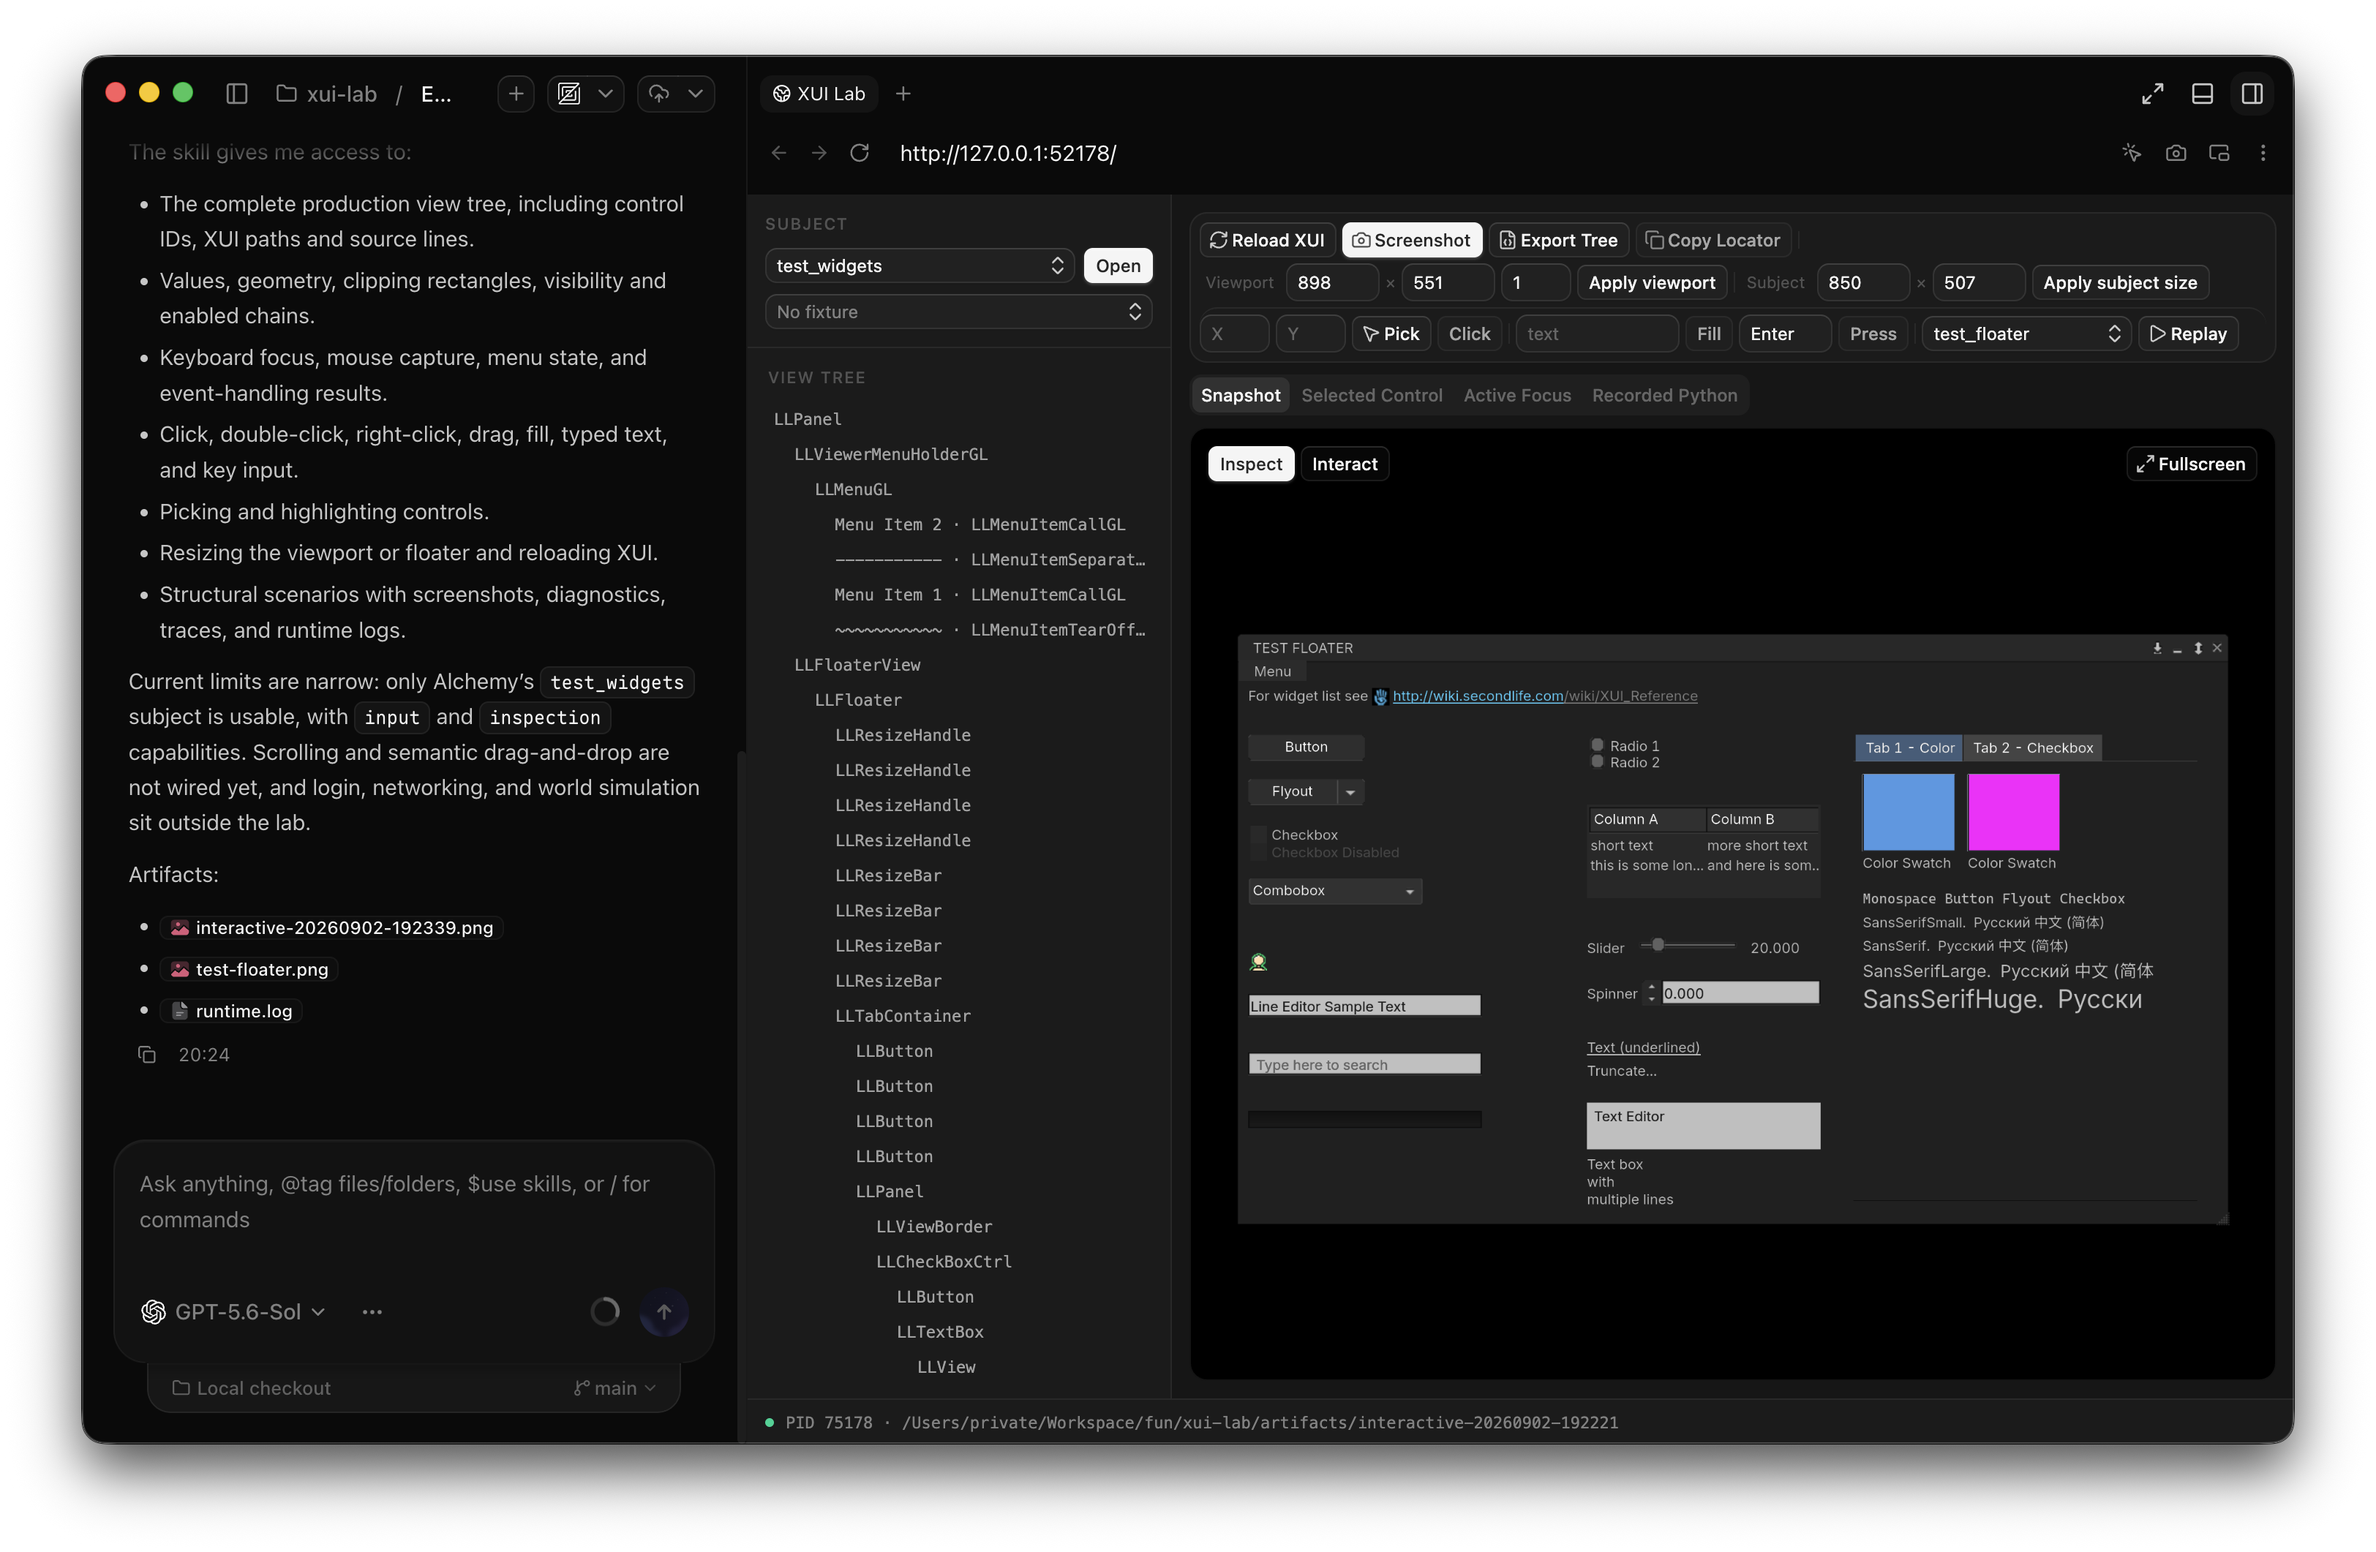
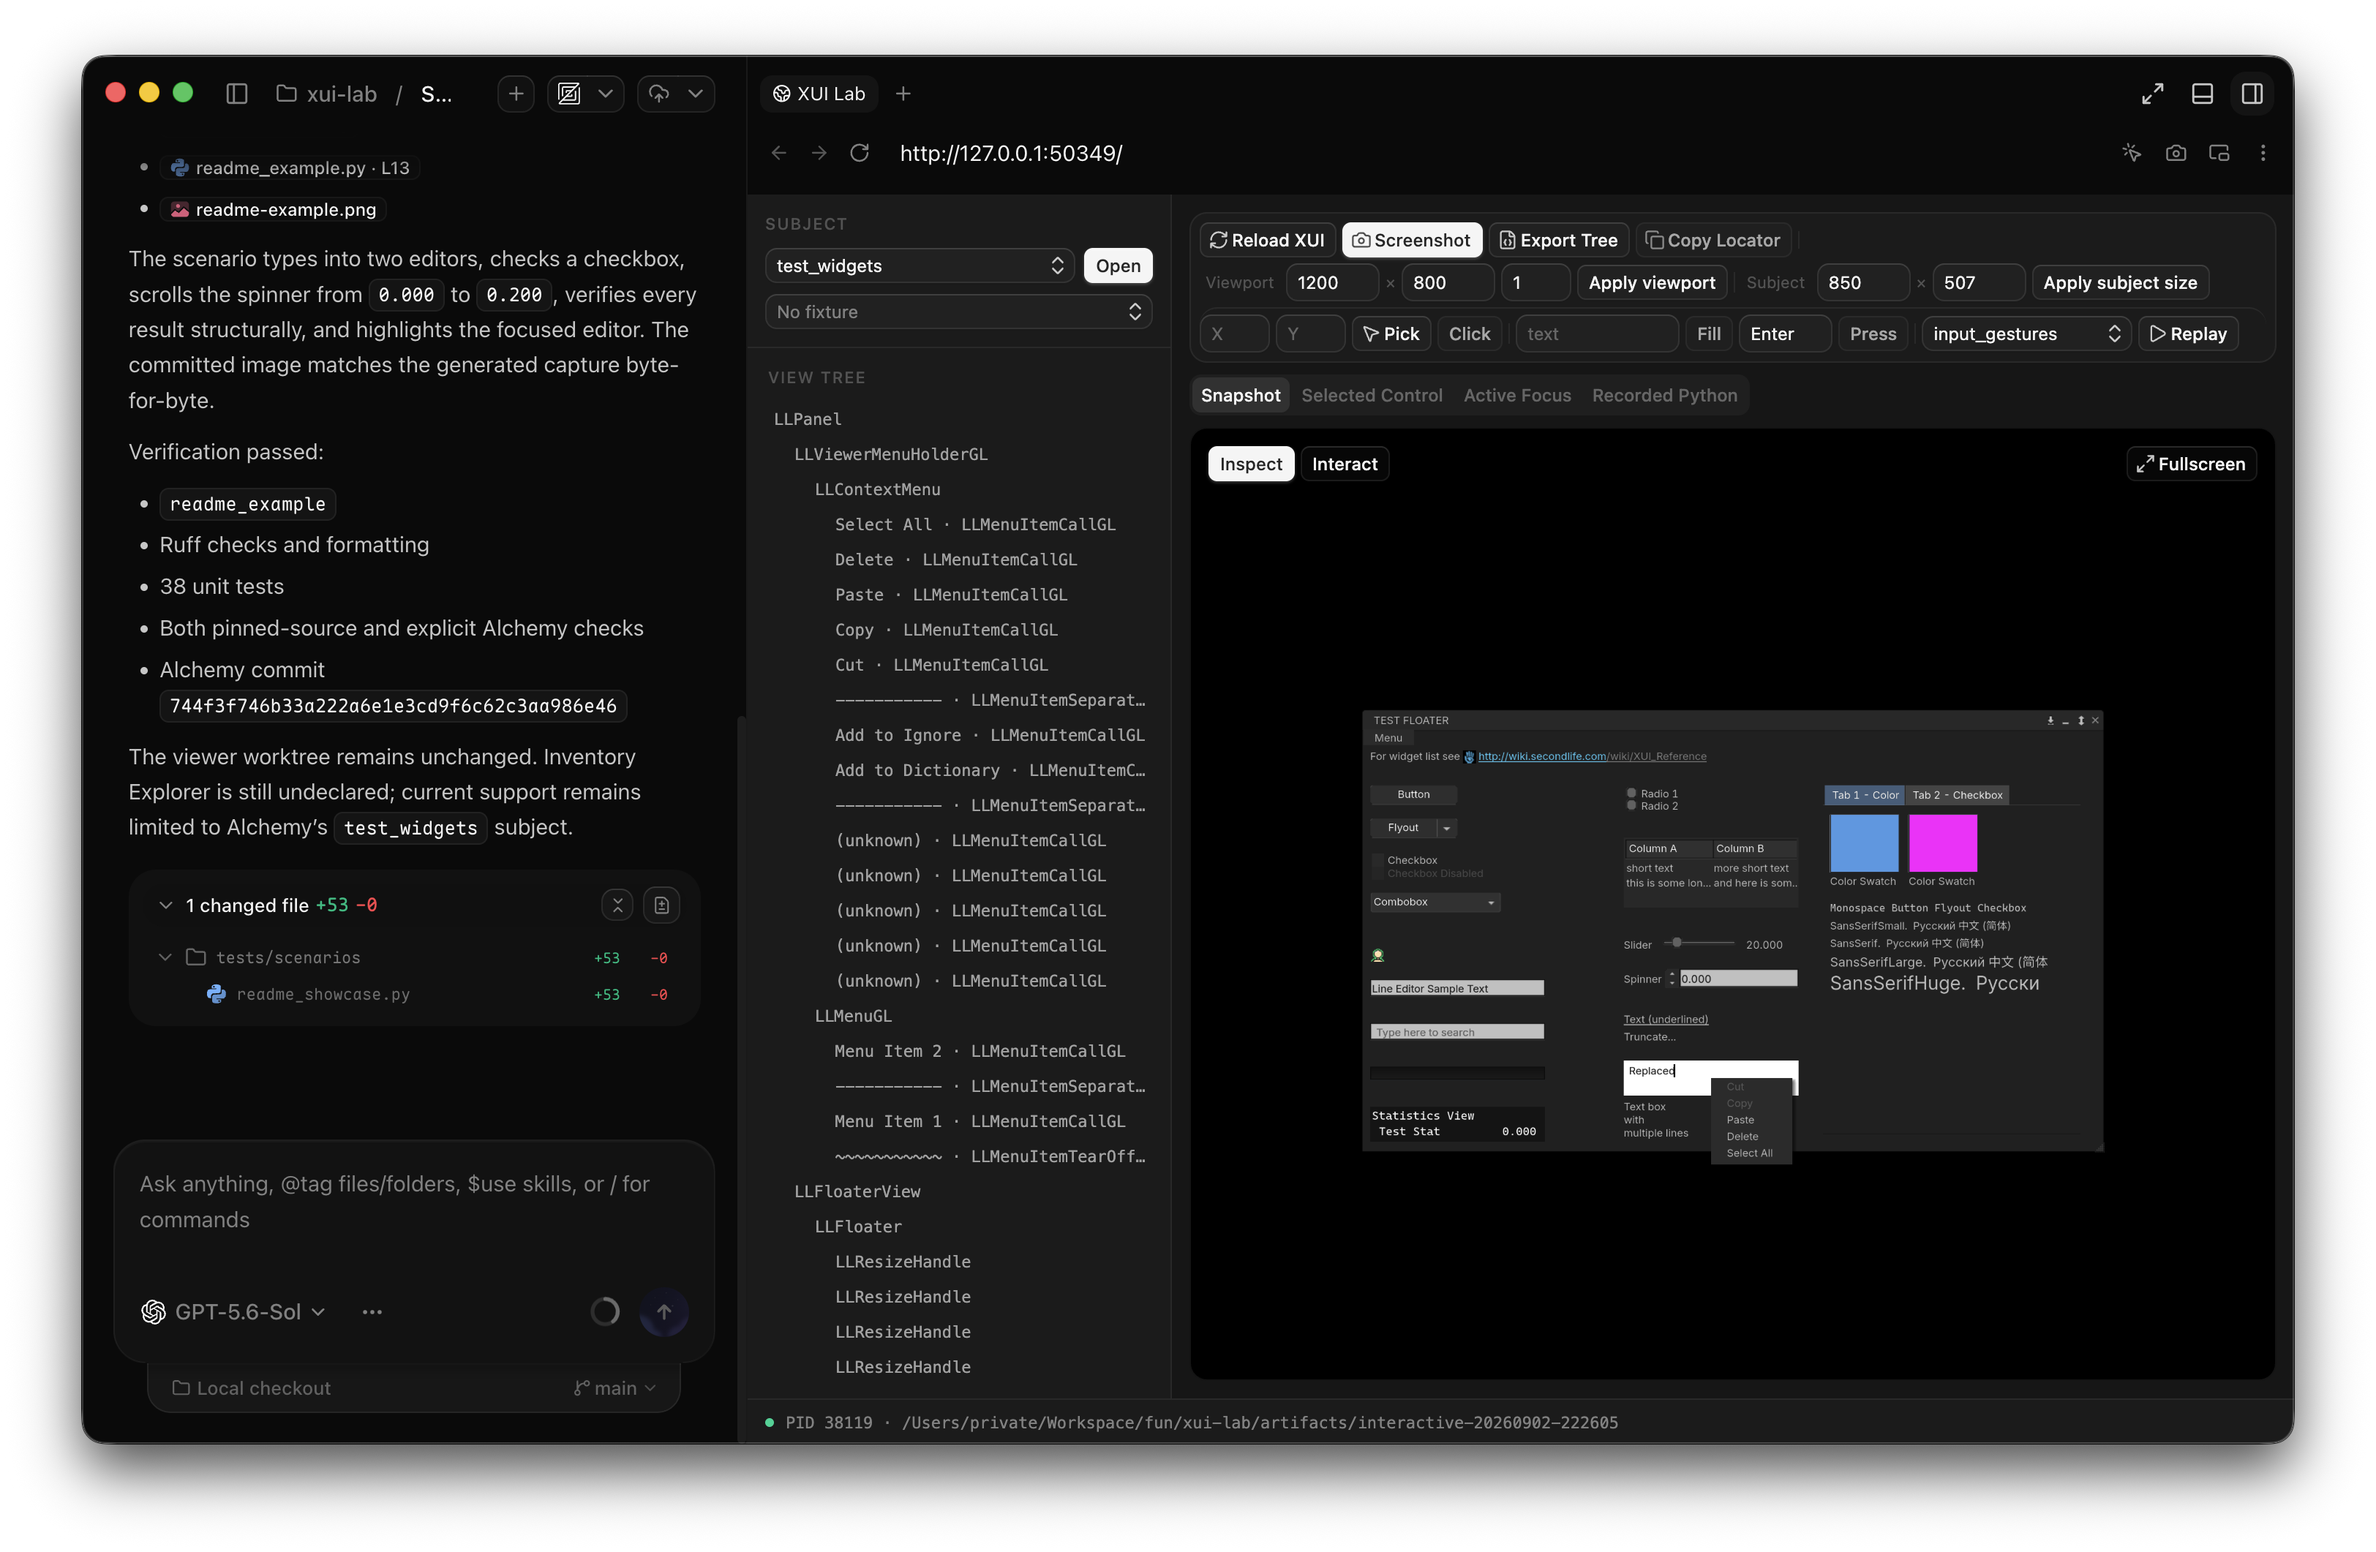
docs: add runnable XUI Lab example

diff --git a/tests/scenarios/readme_example.py b/tests/scenarios/readme_example.py
@@ -1,0 +1,53 @@
+"""Build the README example with production LLUI input."""
+
+from xui_lab import Capability, Scenario, Viewport, Window
+from xui_lab.errors import AssertionFailure
+
+CHECKBOX = "/Floater View/floater_test_widgets/test_checkbox"
+CHECKBOX_BUTTON = f"{CHECKBOX}/CheckboxCtrl Button"
+LINE_EDITOR = "/Floater View/floater_test_widgets/test_line_editor"
+SPINNER = "/Floater View/floater_test_widgets/test_spinner"
+TEXT_EDITOR = "/Floater View/floater_test_widgets/test_text_editor"
+
+
+def run(window: Window) -> None:
+    window.advance_frames(2)
+    window.wait_for_stable()
+    window.resize_viewport(1024, 700, ui_scale=1.0)
+    window.reload()
+
+    line_editor = window.get_by_path(LINE_EDITOR)
+    line_editor.fill("XUI Lab was here.").expect_handled()
+    line_editor.expect_value("XUI Lab was here.")
+
+    checkbox = window.get_by_path(CHECKBOX)
+    checkbox.expect_value(False)
+    window.get_by_path(CHECKBOX_BUTTON).click().expect_handled()
+    checkbox.expect_value(True)
+
+    spinner = window.get_by_path(SPINNER)
+    before = spinner.resolve().info.get("value")
+    spinner.scroll(-2).expect_handled()
+    after = spinner.resolve().info.get("value")
+    if not isinstance(before, (int, float)) or not isinstance(after, (int, float)):
+        raise AssertionFailure("spinner values must be numeric")
+    if after <= before:
+        raise AssertionFailure(
+            f"upward wheel input did not increase the spinner: {before} -> {after}"
+        )
+
+    editor = window.get_by_path(TEXT_EDITOR)
+    message = "The editor got this text.\nThe tree reports it too."
+    editor.fill(message).expect_handled()
+    editor.expect_value(message)
+    window.capture("readme-example", highlight=editor)
+
+
+SCENARIO = Scenario(
+    id="readme_example",
+    fork="alchemy",
+    subject="test_widgets",
+    viewport=Viewport(1024, 700, 1.0),
+    capabilities=frozenset({Capability("input"), Capability("inspection")}),
+    run=run,
+)

diff --git a/README.md b/README.md
@@ -22,6 +22,30 @@ services at explicit boundaries.
   controls from the current production UI tree.
 - Hidden scenario runs through the same production UI path.
 
+## Run an input scenario
+
+[`readme_example.py`](tests/scenarios/readme_example.py) uses `fill()` on the
+line editor and multiline editor. It clicks the checkbox and sends two upward
+wheel steps to the spinner, changing its value from `0.000` to `0.200`. After
+each input, the scenario reads the control's value from the production view
+tree. It writes the capture only after every check passes.
+
+Run the example against an Alchemy checkout and its matching lab binary:
+
+```sh
+./xui-lab \
+  --viewer-source alchemy=/path/to/alchemy \
+  run tests/scenarios/readme_example.py \
+  --runtime /path/to/xui-lab \
+  --artifacts artifacts/readme-example
+```
+
+The runner reports the scenario and the proof directory:
+
+```text
+readme_example: passed [artifacts/readme-example/readme_example]
+```
+
 ## Inspector frontend
 
 The browser inspector is a React and TypeScript application in `inspector/`.
